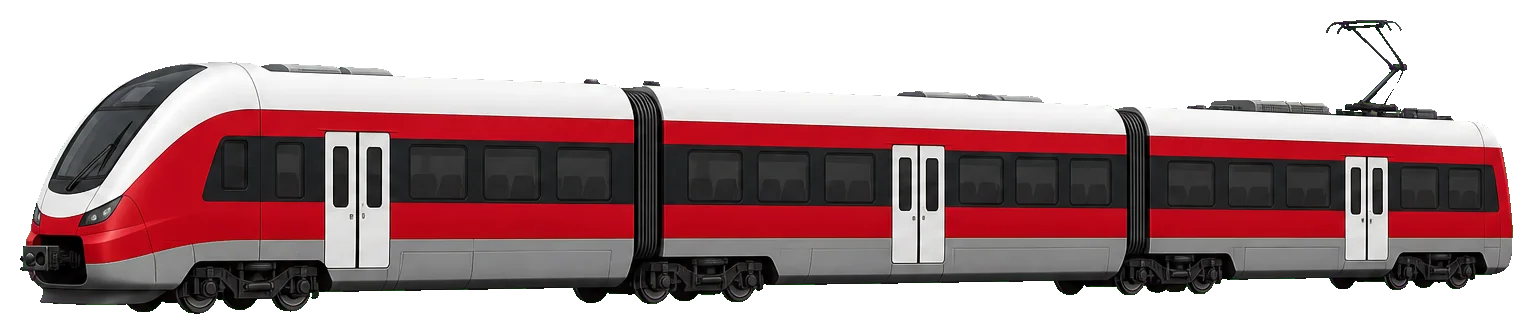
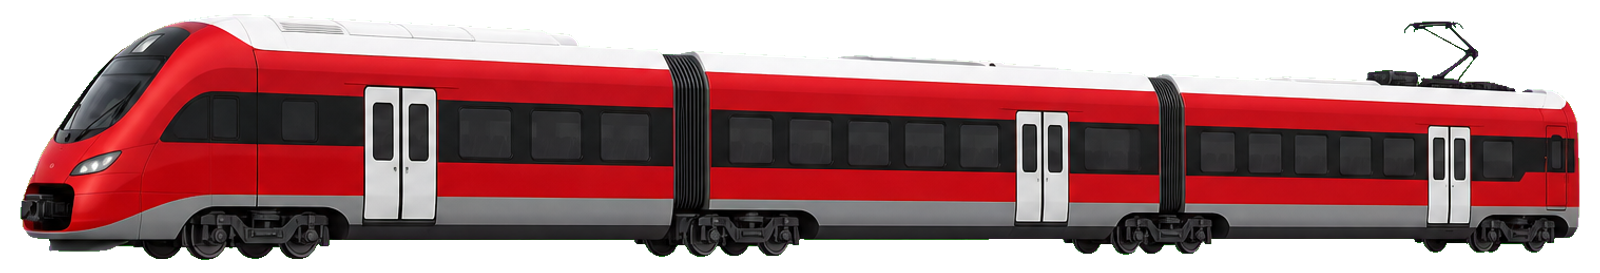
Polish hero train as a DSB-style EMU pass-by.
Swap in a cleaner red/white Danish passenger EMU with white roof and doors preserved, widen the glide into a smooth ease-in/cruise/ease-out pass, and soften edge masking plus opacity so hero copy stays readable on mobile.

diff --git a/web/src/components/site/TrainAccent.tsx b/web/src/components/site/TrainAccent.tsx
@@ -3,7 +3,7 @@
 import Image from "next/image";
 import { useEffect, useRef } from "react";
 
-/** Soft Danish EMU watermark — slow glide + light scroll parallax behind hero copy. */
+/** Soft Danish EMU watermark — polished pass-by + light scroll parallax. */
 export function TrainAccent() {
   const parallaxRef = useRef<HTMLDivElement>(null);
 
@@ -18,9 +18,9 @@ export function TrainAccent() {
       cancelAnimationFrame(raf);
       raf = requestAnimationFrame(() => {
         const y = window.scrollY;
-        // Subtle pass-by feel: mostly horizontal, tiny vertical drift.
-        const x = Math.min(y * 0.12, 48);
-        const vy = Math.min(y * 0.03, 18);
+        // Soft drift with the page — mostly lateral, tiny lift.
+        const x = Math.min(y * 0.1, 40);
+        const vy = Math.min(y * 0.025, 14);
         el.style.transform = `translate3d(${x}px, ${vy}px, 0)`;
       });
     };
@@ -38,20 +38,28 @@ export function TrainAccent() {
       className="pointer-events-none absolute inset-0 z-0 overflow-hidden"
       aria-hidden
     >
-      <div className="absolute left-1/2 top-[50%] w-[min(160vw,920px)] -translate-x-1/2 -translate-y-1/2 sm:top-[48%] sm:w-[min(130vw,1100px)] md:w-[min(110vw,1280px)]">
+      <div
+        className="absolute left-1/2 top-[52%] w-[min(190vw,980px)] -translate-x-1/2 -translate-y-1/2 sm:top-[50%] sm:w-[min(150vw,1180px)] md:w-[min(120vw,1360px)]"
+        style={{
+          WebkitMaskImage:
+            "linear-gradient(90deg, transparent 0%, #000 12%, #000 88%, transparent 100%)",
+          maskImage:
+            "linear-gradient(90deg, transparent 0%, #000 12%, #000 88%, transparent 100%)",
+        }}
+      >
         <div className="train-glide will-change-transform">
           <div
             ref={parallaxRef}
-            className="scroll-train opacity-[0.10] will-change-transform sm:opacity-[0.13] md:opacity-[0.16]"
+            className="scroll-train opacity-[0.09] will-change-transform sm:opacity-[0.12] md:opacity-[0.15]"
           >
             <Image
               src="/train-hero.webp"
               alt=""
-              width={1531}
-              height={334}
+              width={1600}
+              height={273}
               priority
               className="h-auto w-full select-none"
-              sizes="(max-width: 640px) 160vw, (max-width: 768px) 130vw, 1280px"
+              sizes="(max-width: 640px) 190vw, (max-width: 768px) 150vw, 1360px"
             />
           </div>
         </div>

diff --git a/web/src/app/globals.css b/web/src/app/globals.css
@@ -169,17 +169,23 @@ video {
   animation: trainExit 0.75s cubic-bezier(0.4, 0, 0.2, 1) forwards;
 }
 
-/* Hero watermark: slow horizontal pass (EMU glide) */
+/* Hero watermark: smooth Danish EMU pass-by (ease in/cruise/ease out) */
 @keyframes trainGlide {
   0% {
-    transform: translate3d(-6%, 0, 0);
+    transform: translate3d(-22%, 0, 0);
+  }
+  15% {
+    transform: translate3d(-14%, 0, 0);
+  }
+  85% {
+    transform: translate3d(14%, 0, 0);
   }
   100% {
-    transform: translate3d(6%, 0, 0);
+    transform: translate3d(22%, 0, 0);
   }
 }
 .train-glide {
-  animation: trainGlide 36s cubic-bezier(0.37, 0, 0.63, 1) infinite alternate;
+  animation: trainGlide 32s cubic-bezier(0.4, 0.0, 0.2, 1) infinite alternate;
 }
 
 @keyframes trackPulse {
